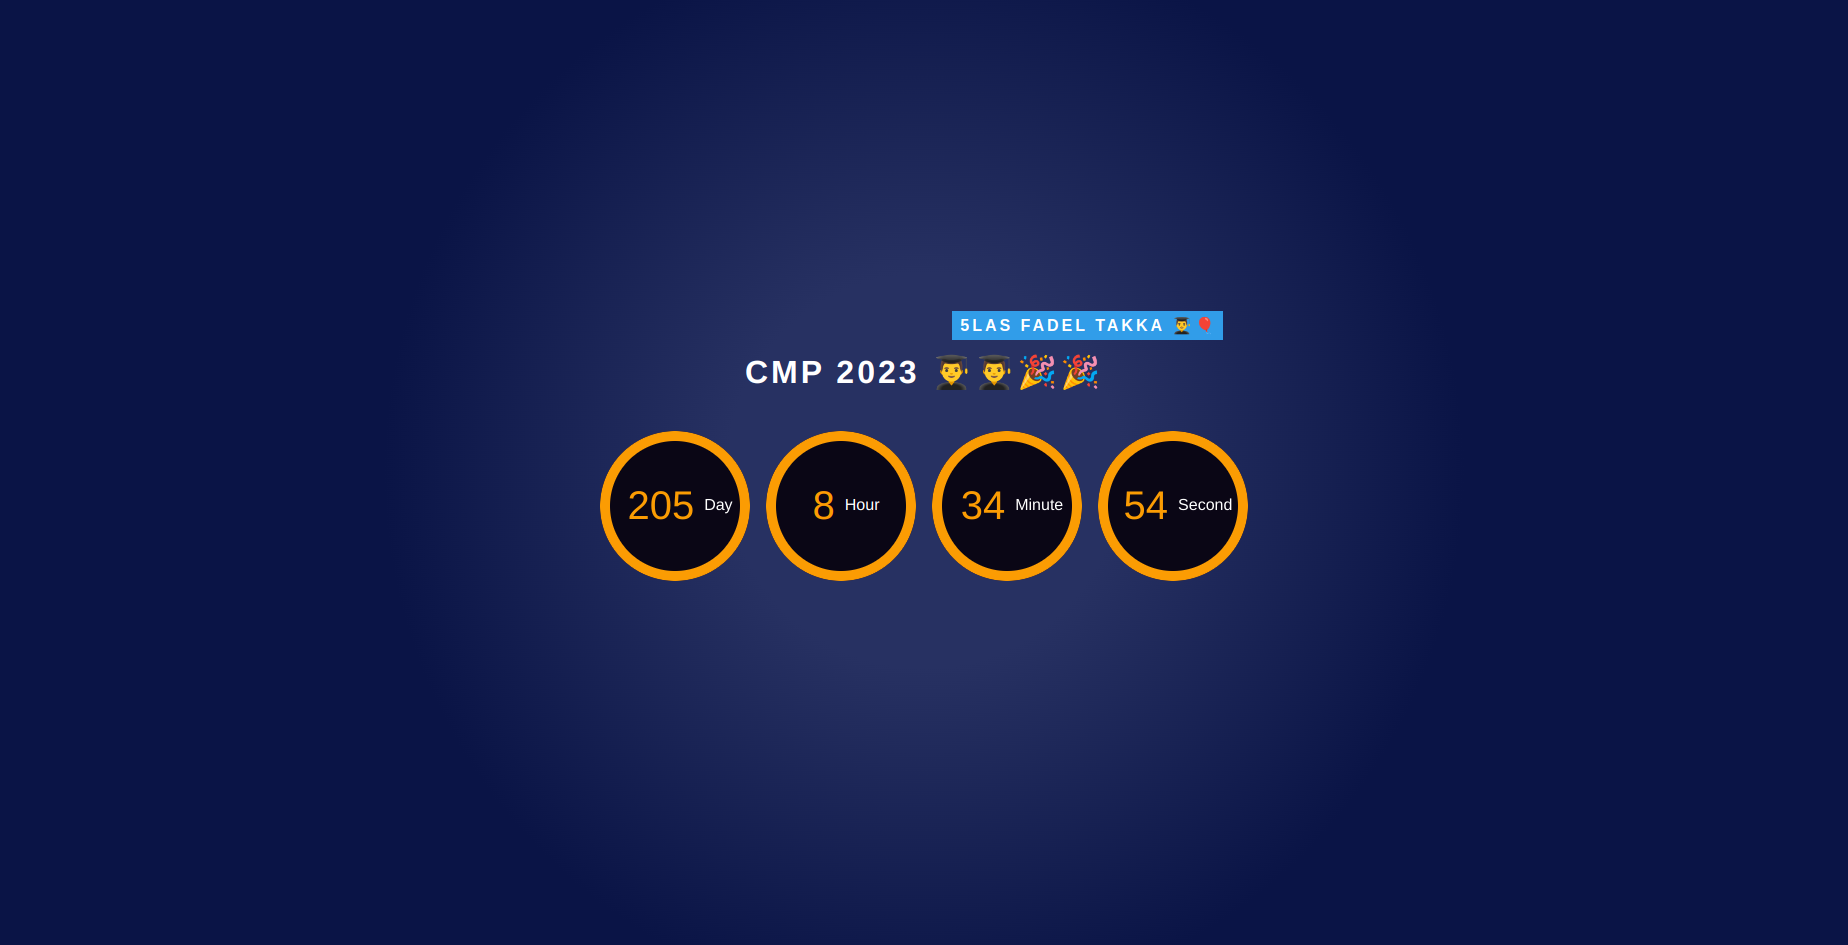
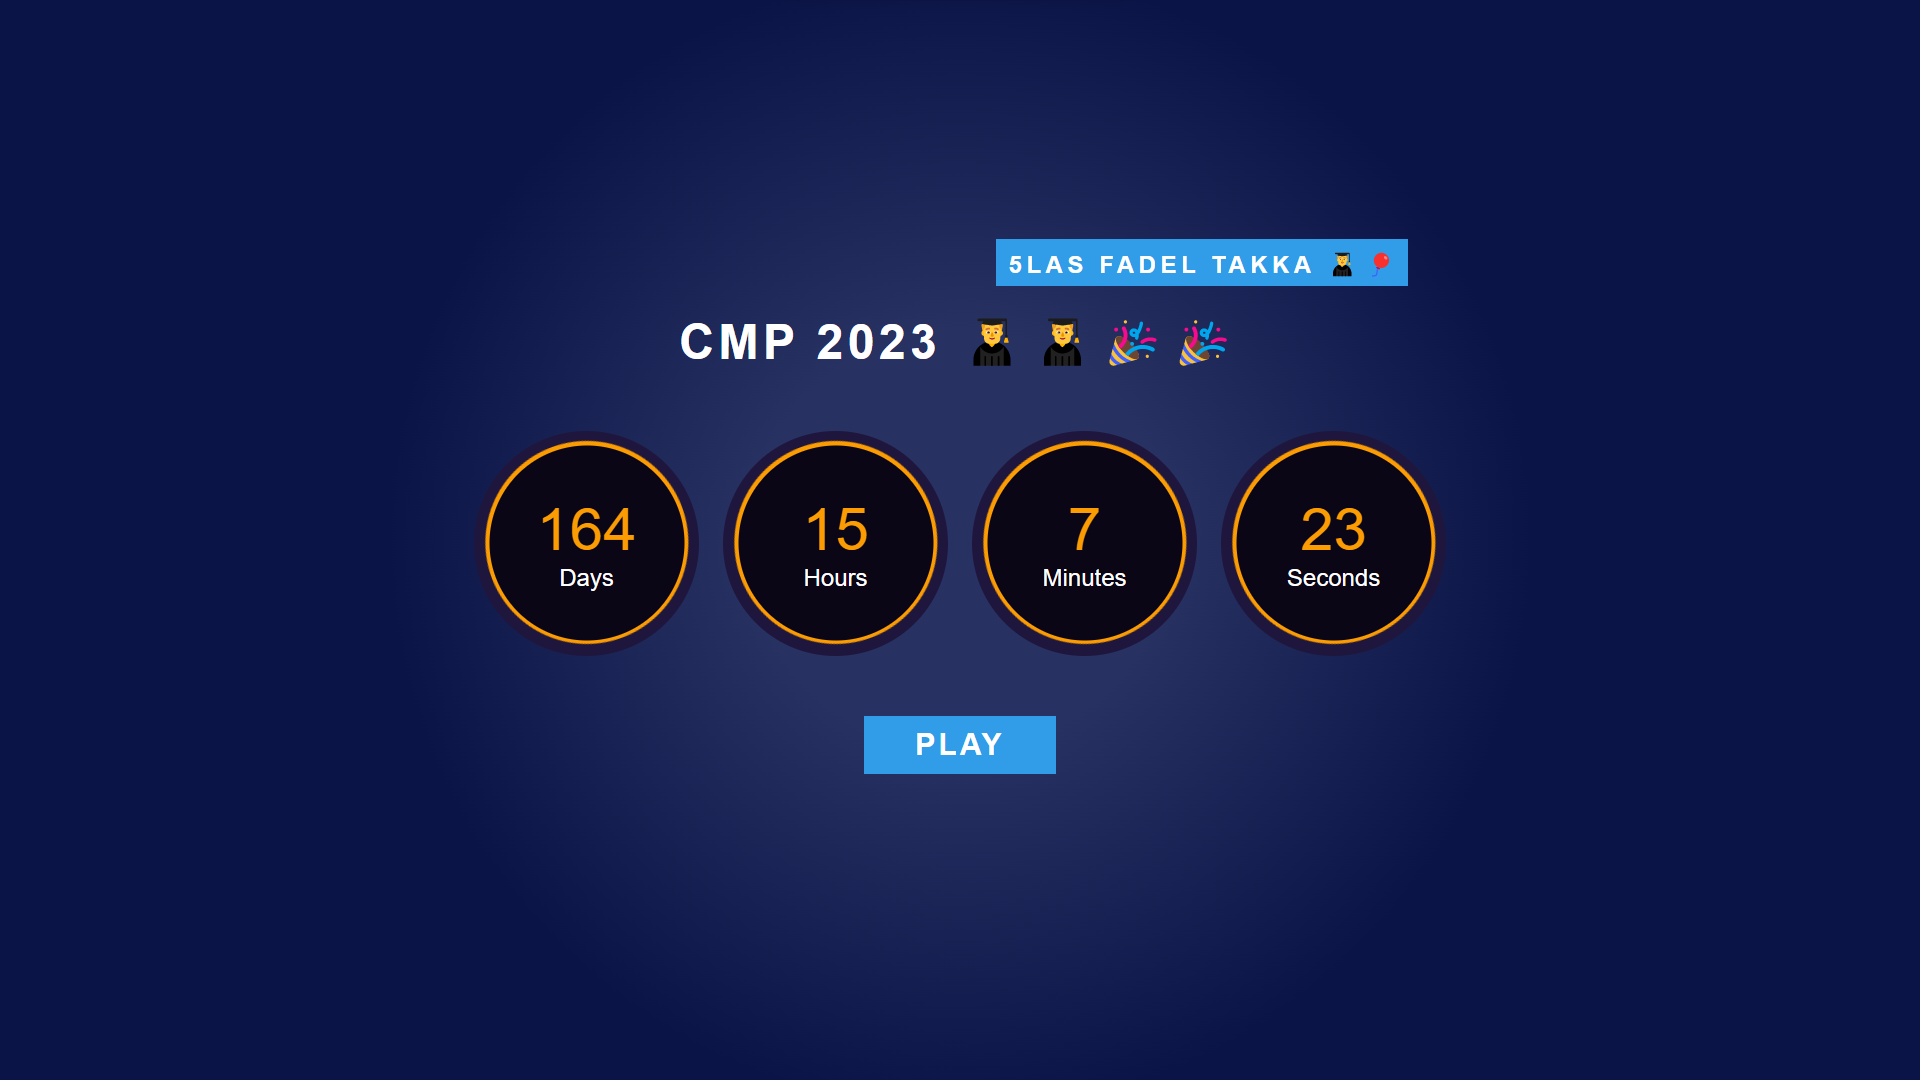
fix play button styling and bug fixes

Changed region(s): [[0.2468, 0.2148, 0.7711, 0.6138], [0.4318, 0.6444, 0.5552, 0.7365]]

diff --git a/style.css b/style.css
@@ -4,6 +4,7 @@
 	box-sizing: border-box;
 	font-family: sans-serif;
 }
+
 body {
 	display: flex;
 	justify-content: center;
@@ -11,12 +12,11 @@ body {
 	width: 100%;
 	min-height: 100vh;
 	background: rgb(39, 49, 98);
-	background: radial-gradient(
-		circle,
-		rgba(39, 49, 98, 1) 19%,
-		rgba(10, 20, 70, 1) 52%
-	);
+	background: radial-gradient(circle,
+			rgba(39, 49, 98, 1) 19%,
+			rgba(10, 20, 70, 1) 52%);
 }
+
 .container h1 {
 	text-align: center;
 	color: white;
@@ -26,6 +26,7 @@ body {
 	letter-spacing: 3px;
 	padding-bottom: 2rem;
 }
+
 .container h1::after {
 	content: '5las fadel Takka 👨🎓🎈';
 	position: absolute;
@@ -37,11 +38,13 @@ body {
 	padding: 5px;
 	padding-left: 8px;
 }
+
 .timers {
 	display: flex;
 	align-items: center;
 	justify-content: space-around;
 }
+
 .timers .timer {
 	background-color: rgb(31, 22, 61);
 	width: 150px;
@@ -53,6 +56,7 @@ body {
 	overflow: hidden;
 	z-index: 1;
 }
+
 .timers .timer::before {
 	content: '';
 	background-color: rgb(251, 156, 3);
@@ -63,6 +67,7 @@ body {
 	animation: animate 3s linear alternate infinite none;
 	transition: 1s;
 }
+
 .timers .timer div {
 	position: relative;
 	z-index: 100;
@@ -75,13 +80,35 @@ body {
 	background-color: rgb(10, 6, 21);
 	color: white;
 	display: flex;
+	flex-direction: column;
 	align-items: center;
 	justify-content: center;
 }
+
 .timers .timer div span {
 	font-size: 40px;
 	color: rgb(251, 156, 3);
-	padding: 10px;
+	padding: 0 10px;
+}
+
+.player-button {
+	display: block;
+	min-width: 8rem;
+	margin: 2rem auto 0rem auto;
+	padding: 0.5rem 1rem;
+	background-color: #319de9;
+	color: white;
+	font-size: 1.25rem;
+	font-weight: bold;
+	letter-spacing: 2px;
+	text-transform: uppercase;
+	border: none;
+	cursor: pointer;
+	transition: all 0.3s ease;
+}
+
+.player-button:hover {
+	background-color: #59baff;
 }
 
 @keyframes animate {
@@ -89,10 +116,12 @@ body {
 		transform: rotate(0deg);
 		inset: 15px;
 	}
+
 	50% {
 		transform: rotate(90deg);
 		inset: 5px;
 	}
+
 	100% {
 		transform: rotate(180deg);
 		inset: 0px;
@@ -105,6 +134,7 @@ body {
 		padding-top: 100px;
 		padding-bottom: 100px;
 	}
+
 	.timers {
 		display: flex;
 		flex-direction: column;

diff --git a/index.html b/index.html
@@ -5,27 +5,27 @@
 		<meta http-equiv="X-UA-Compatible" content="IE=edge" />
 		<meta name="viewport" content="width=device-width, initial-scale=1.0" />
 		<link rel="stylesheet" href="style.css" />
-		<title>Graduation Count-Down</title>
+		<title>CMP23 Graduation Count Down</title>
 	</head>
 	<body onload="countDown()">
 		<div class="container">
 			<h1>CMP 2023 👨🎓👨🎓🎉🎉<span id="year"></span></h1>
 			<div class="timers">
 				<div class="timer">
-					<div><span id="day"></span> Day</div>
+					<div><span id="day"></span> Days</div>
 				</div>
 				<div class="timer">
-					<div><span id="hour"></span> Hour</div>
+					<div><span id="hour"></span> Hours</div>
 				</div>
 				<div class="timer">
-					<div><span id="min"></span> Minute</div>
+					<div><span id="min"></span> Minutes</div>
 				</div>
 				<div class="timer">
-					<div><span id="sec"></span> Second</div>
+					<div><span id="sec"></span> Seconds</div>
 				</div>
 			</div>
+			<button class="player-button" id="taka_player" onclick="toggle_taka()">Play</button>
 		</div>
-		<input id="taka_player" value="Play" type="button" onclick="toggle_taka()" />
 	</body>
 	<!-- script -->
 	<script src="script.js"></script>

diff --git a/script.js b/script.js
@@ -1,6 +1,6 @@
 function countDown() {
 	let today = new Date();
-	let vDate = new Date("2023-7-20");
+	let vDate = new Date("2023-7-21 10:00:00");
 	const t = vDate.getTime() - today.getTime();
 
 	const day = Math.floor(t / (1000 * 60 * 60 * 24));
@@ -8,7 +8,6 @@ function countDown() {
 	const minute = Math.floor((t % (1000 * 60 * 60)) / (1000 * 60));
 	const sec = Math.floor((t % (1000 * 60)) / 1000);
 
-	// document.getElementById('year').innerText = today.getFullYear();
 	document.getElementById('day').innerText = day;
 	document.getElementById('hour').innerText = hour;
 	document.getElementById('min').innerText = minute;
@@ -28,9 +27,9 @@ audio.loop = true;
 function toggle_taka() {
 	if (audio.paused) {
 		audio.play()
-		document.getElementById('taka_player').setAttribute('value', 'Pause');
+		document.getElementById('taka_player').innerText = 'pause'
 	} else {
 		audio.pause()
-		document.getElementById('taka_player').setAttribute('value', 'Play');
+		document.getElementById('taka_player').innerText = 'play'
 	}
 }

diff --git a/README.md b/README.md
@@ -1,6 +1,6 @@
 # CMP 23 COUNT DOWN
 
-A cout down to the graduation of CMP 23 🥳🎓
+A count down to the graduation of CMP 23 🥳🎓
 
 **<a href="https://omar214.github.io/cmp23-count-down/" target="_blank">Watch Live</a>**
 
@@ -8,5 +8,4 @@ A cout down to the graduation of CMP 23 🥳🎓
 ## 🎥 Screenshots<a name = "screenshots"></a> 
 
   ![collapesd](./screens/cmp23.png)
-
-  <hr />
+  
